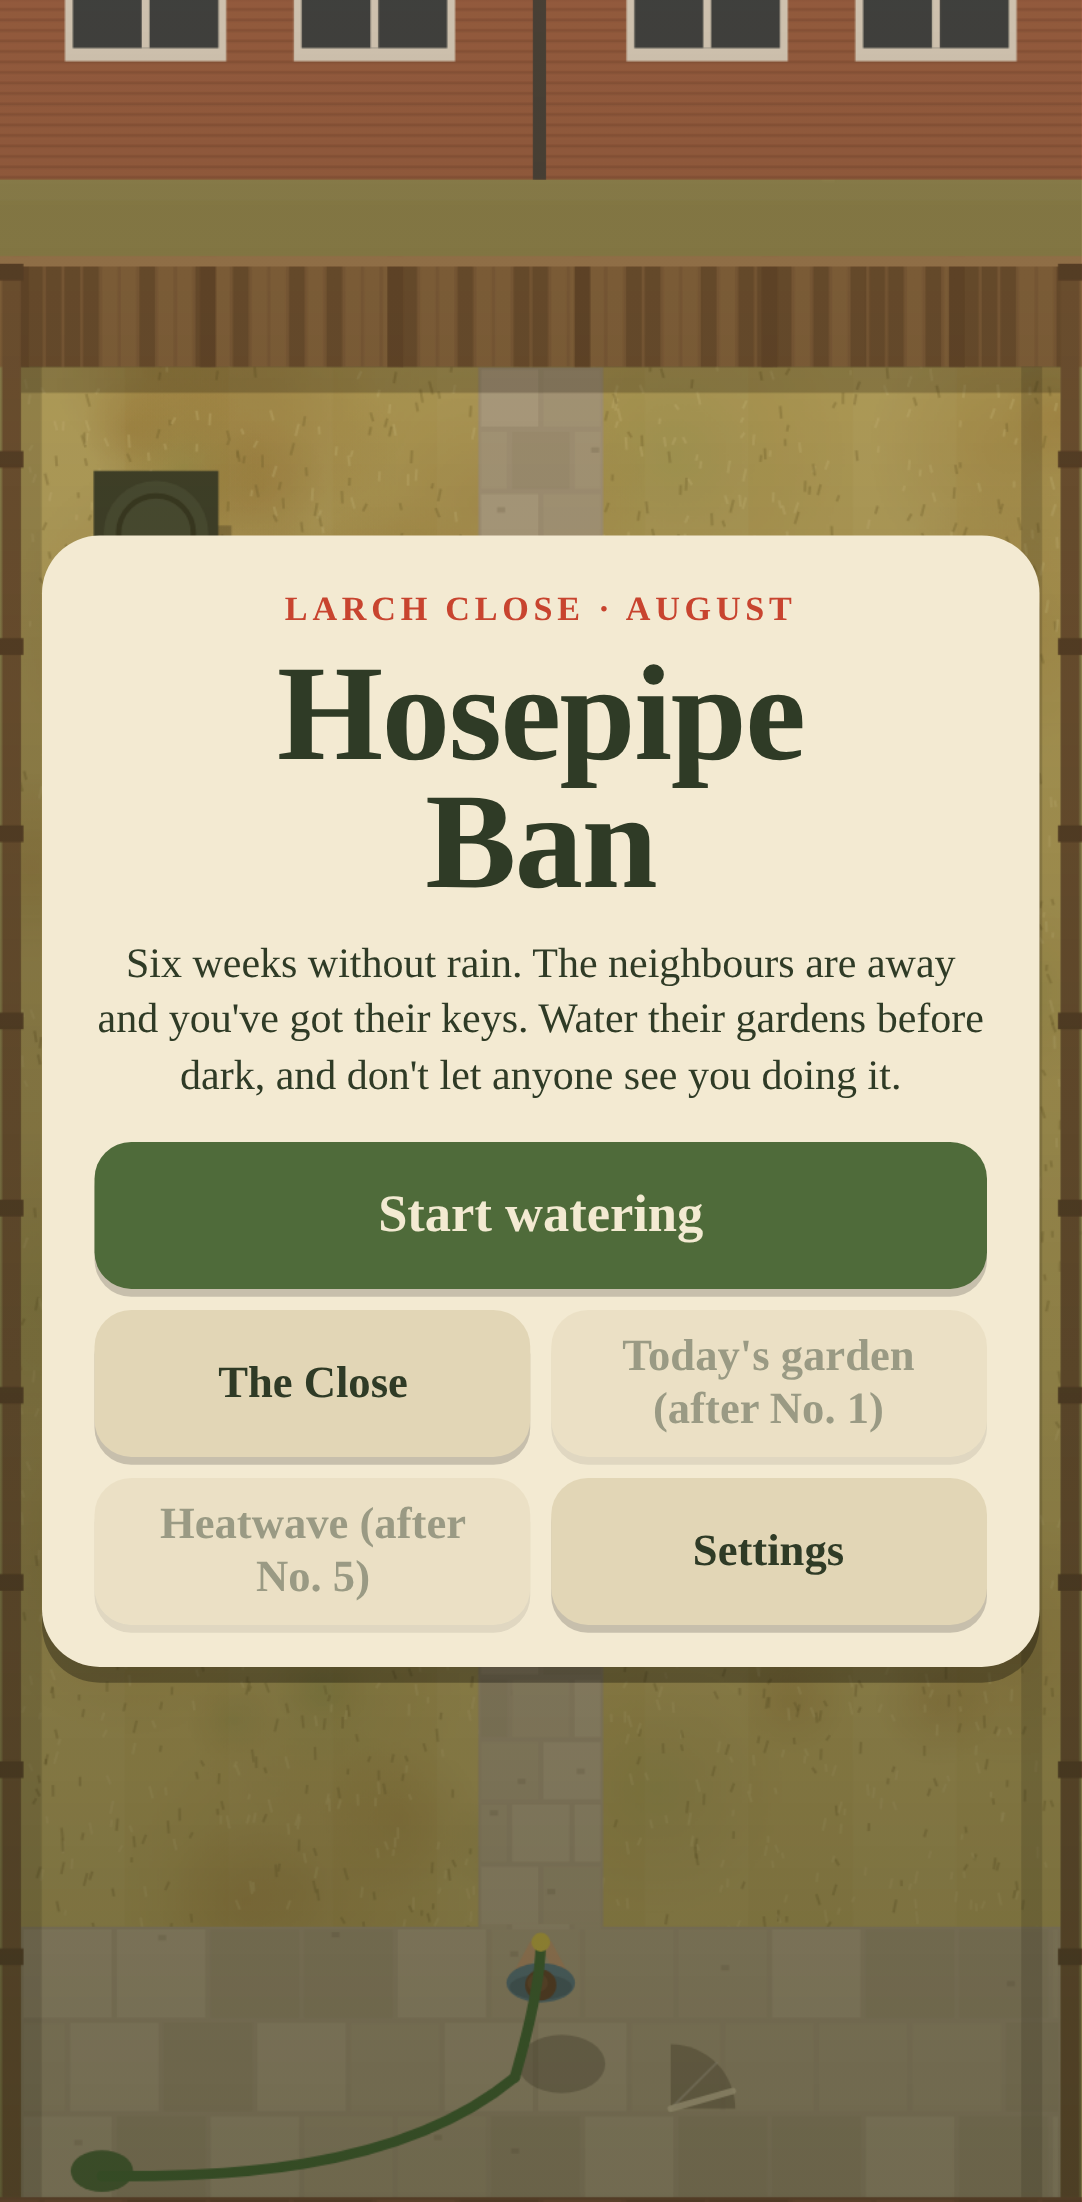
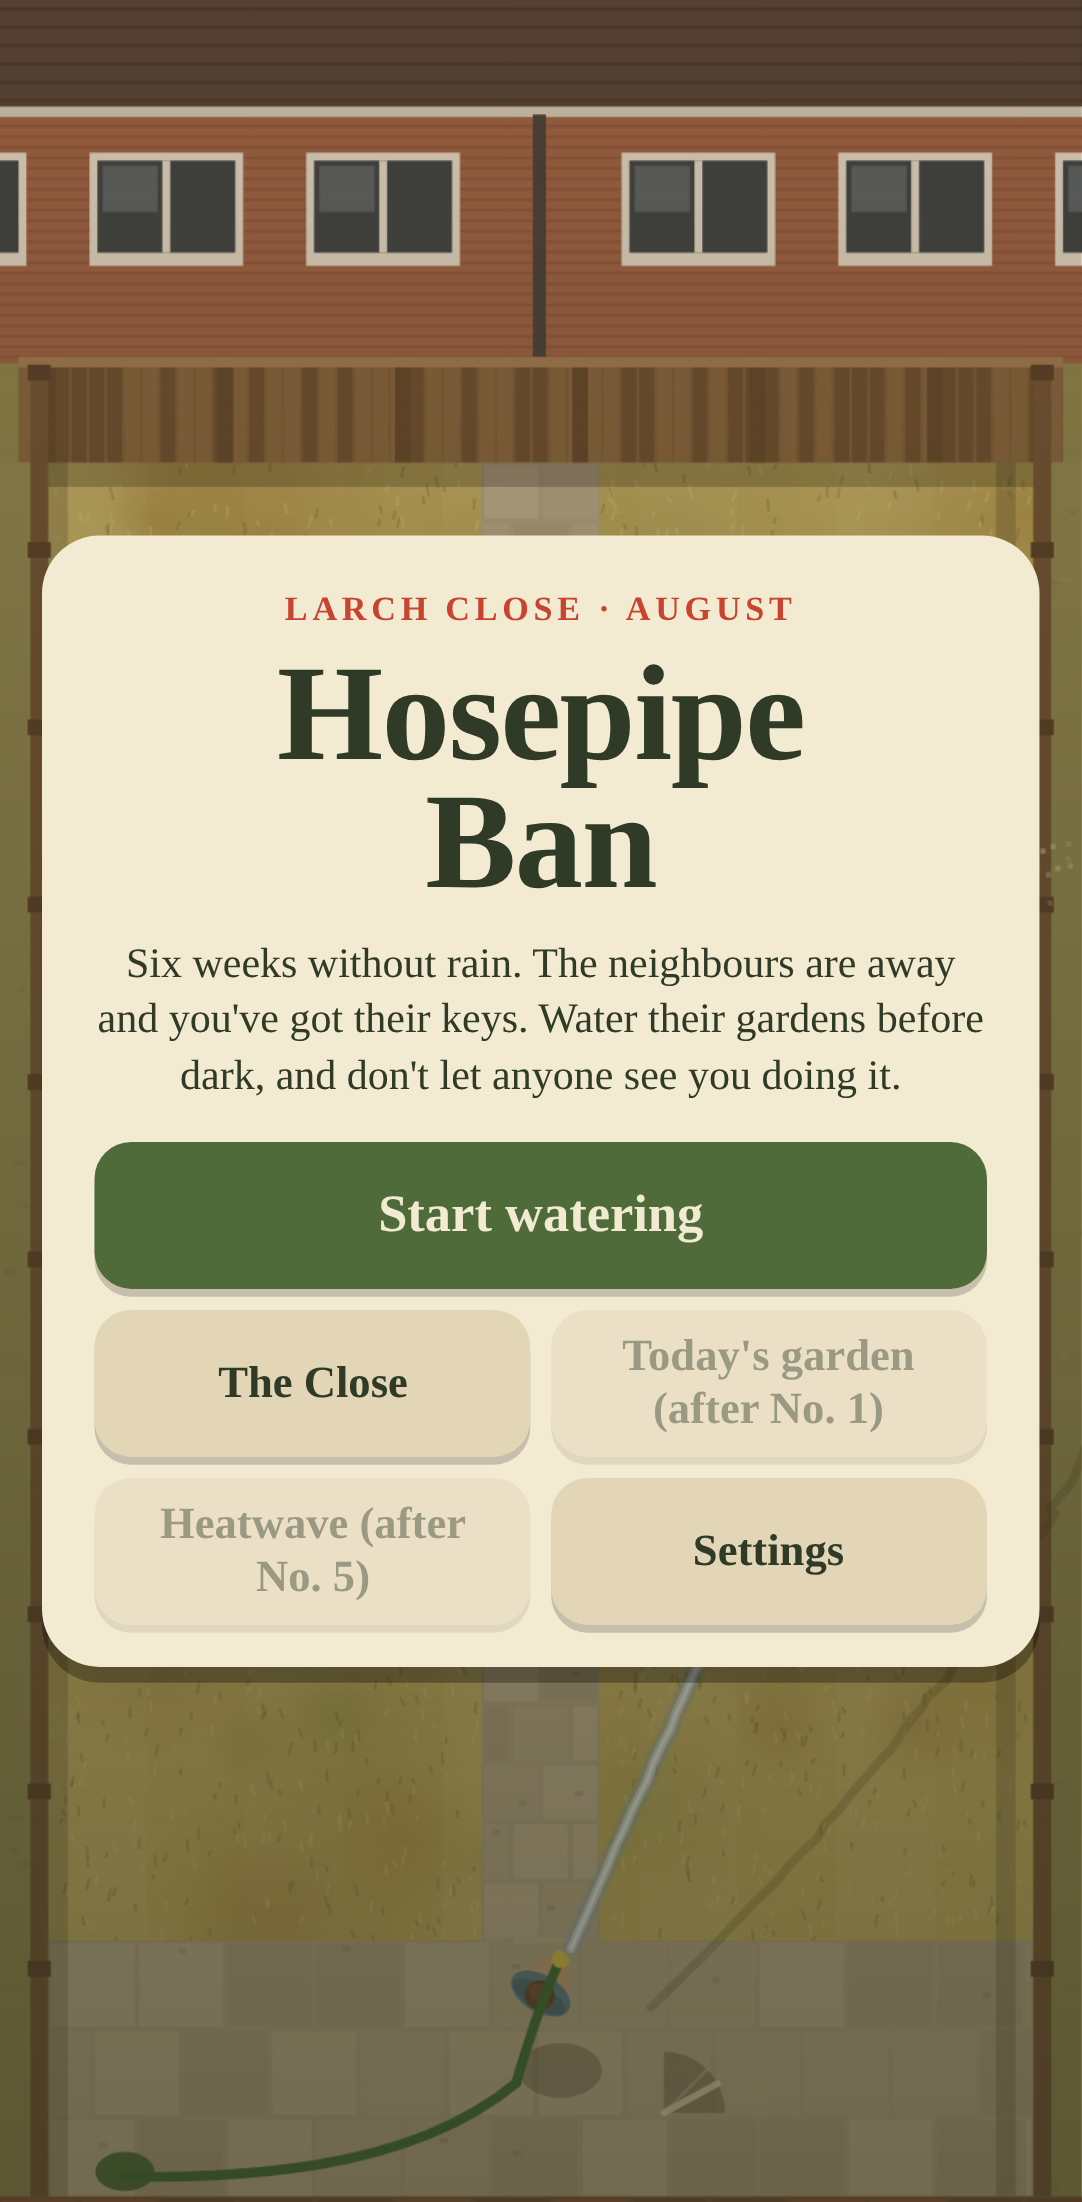
README, run_all, forgiving water budgets

diff --git a/dist/index.html b/dist/index.html
@@ -187,7 +187,7 @@ const U={
 'use strict';
 const SIM=(()=>{
 const G=30,DT=1/120,NOZ_Z=1.0,EL_MIN=-14,EL_MAX=80,AZ_MAX=1.5,FENCE_H=1.8,GW=10,GH=17;
-const MODES={jet:{v:21,rate:120,spread:.005,vs:.01,flow:1,wind:.55,drag:.04},spray:{v:14,rate:230,spread:.13,vs:.1,flow:1,wind:1.3,drag:.55}};
+const MODES={jet:{v:21,rate:120,spread:.005,vs:.01,flow:1,wind:1.0,drag:.04},spray:{v:14,rate:230,spread:.13,vs:.1,flow:1,wind:2.0,drag:.55}};
 const OVER=1.6;            // fill above this spills over and the plant counts as overwatered
 // particle pool, used as a ring in emission order so neighbours can be drawn as one continuous stream
 const N=2048,px=new Float32Array(N),py=new Float32Array(N),pz=new Float32Array(N),vx=new Float32Array(N),vy=new Float32Array(N),vz=new Float32Array(N),
@@ -414,11 +414,11 @@ const L=[
 {id:'no19',no:19,name:'No. 19',who:'The Hallorans',line:'The apple tree catches anything you lob. Shoot under it.',time:80,parF:1.7,
  trees:[{x:5,y:6.4,r:2.2,z0:2.75}],beds:[{x0:2.6,y0:5.8,x1:7.4,y1:7,plant:'lettuce',n:3},{x0:1.5,y0:1.6,x1:8.5,y1:2.6,plant:'beans',n:4}],baskets:[{x:1,y:12.5,z:2.2},{x:9,y:12.5,z:2.2}],
  hard:[PATIO],deco:[{k:'swing',x:8.2,y:9.6}]},
-{id:'no21',no:21,name:'No. 21',who:'The Fishers',line:'Washing, wind and the window. Good luck.',time:85,parF:1.6,wind:{x:-2.2,y:0,ph:2},window:{x:7,first:9,warn:1.3,watch:3,quiet:6.5,quietVar:4,rate:.42},
+{id:'no21',no:21,name:'No. 21',who:'The Fishers',line:'Washing, wind and the window. Good luck.',time:100,parF:1.6,wind:{x:-2.2,y:0,ph:2},window:{x:7,first:9,warn:1.3,watch:3,quiet:6.5,quietVar:4,rate:.42},
  wash:{ax:.4,ay:9.6,bx:9.6,by:9.6,items:[[.05,.15,.8,'shirt','#e9e4d6'],[.2,.3,.8,'towel','#5f8a6a'],[.36,.46,.9,'sheet','#e8e0ef'],[.55,.65,.7,'shirt','#c55a4a'],[.7,.8,.85,'towel','#e2b64a'],[.84,.93,.6,'socks','#3e4a5c']]},
  beds:[{x0:1,y0:2.2,x1:9,y1:3.3,plant:'roses',n:4}],pots:[{x:2,y:6.4,plant:'marigold'},{x:8,y:6.4,plant:'marigold'},{x:5,y:12.6,plant:'fern'}],baskets:[{x:1.2,y:13.4,z:2.2}],
  hard:[PATIO],deco:[{k:'post',x:.4,y:9.6},{k:'post',x:9.6,y:9.6},{k:'windsock',x:.4,y:.4}]},
-{id:'no23',no:23,name:'No. 23',who:'Show week',line:'The village show is Saturday. Everything at once.',time:95,parF:1.55,cat:{delay:12,gap:9,dig:.2},window:{x:3,first:10,warn:1.3,watch:3,quiet:7,quietVar:4,rate:.42},
+{id:'no23',no:23,name:'No. 23',who:'Show week',line:'The village show is Saturday. Everything at once.',time:120,parF:1.55,cat:{delay:12,gap:9,dig:.2},window:{x:3,first:10,warn:1.3,watch:3,quiet:7,quietVar:4,rate:.42},
  gh:{x0:5.2,y0:1.6,x1:9.4,y1:5.4,d0:6.4,d1:8.2},pots:[{x:6.6,y:3,plant:'tomato',h:.7,cap:2.2},{x:7.6,y:2.4,plant:'tomato',h:.7,cap:2.2},{x:8.1,y:3.8,plant:'tomato',h:.7,cap:2.2},{x:1.6,y:4.2,plant:'marrow',r:.6,cap:3.6}],
  beds:[{x0:1,y0:8,x1:4,y1:9.2,plant:'lettuce',n:2},{x0:6,y0:8,x1:9,y1:9.2,plant:'beans',n:2},{x0:2.8,y0:12.5,x1:7.2,y1:13.3,plant:'seedlings',fragile:true,n:3,cap:1.1}],baskets:[{x:5,y:10.6,z:2.3}],
  hard:[PATIO],deco:[{k:'pergola',x:3.6,y:10.6,x2:6.4}]},
@@ -533,7 +533,7 @@ const X=x=>ox+x*s,Y=(y,z)=>oy+(y-(z||0)*ZK)*s;
 function init(c){cv=c;g=cv.getContext('2d');resize();}
 function resize(){dpr=Math.min(2,window.devicePixelRatio||1);W=innerWidth;H=innerHeight;cv.width=Math.round(W*dpr);cv.height=Math.round(H*dpr);cv.style.width=W+'px';cv.style.height=H+'px';
   const cs=getComputedStyle(document.documentElement);safeT=parseFloat(cs.getPropertyValue('--sat'))||0;safeB=parseFloat(cs.getPropertyValue('--sab'))||0;
-  const avail=H-safeT-safeB;s=Math.min(W/10.4,(avail-58)/20.7);ox=(W-10*s)/2;oy=H-safeB-6-17.5*s;bgKey='';}
+  const avail=H-safeT-safeB;s=Math.min(W/10.4,(avail-62)/20.7);ox=(W-10*s)/2;oy=H-safeB-6-17.5*s;bgKey='';}
 function toWorld(px,py){return [(px-ox)/s,(py-oy)/s];}
 function toScreen(x,y,z){return [X(x),Y(y,z)];}
 
@@ -590,7 +590,7 @@ function drawHouses(c,S,r){const top=Y(0,FENCE_TOP());
   // a drainpipe
   c.fillStyle='#3a3a3a';c.fillRect(X(5)-3,wt,5,wy-wt);}
 function FENCE_H(){return 1.8;}function FENCE_TOP(){return 1.8;}
-function winRect(wx){const x0=X(wx-.7),x1=X(wx+.7),y0=Y(-1,4),y1=Y(-1,2.25);return [x0,y0,x1,y1];}
+function winRect(wx){const x0=X(wx-.7),x1=X(wx+.7),y0=Y(-1,3.75),y1=Y(-1,2.05);return [x0,y0,x1,y1];}
 function drawWindowFrame(c,wx,big){const [x0,y0,x1,y1]=winRect(wx);c.fillStyle='#e9e4d8';c.fillRect(x0-3,y0-3,x1-x0+6,y1-y0+8);c.fillStyle='#2f3a44';c.fillRect(x0,y0,x1-x0,y1-y0);
   if(!big){c.fillStyle='rgba(180,200,210,.25)';c.fillRect(x0+2,y0+2,(x1-x0)*.4,(y1-y0)*.5);c.fillStyle='#e9e4d8';c.fillRect((x0+x1)/2-1.5,y0,3,y1-y0);}}
 function drawFences(c,r){

diff --git a/js/levels.js b/js/levels.js
@@ -34,18 +34,18 @@ const L=[
 {id:'no19',no:19,name:'No. 19',who:'The Hallorans',line:'The apple tree catches anything you lob. Shoot under it.',time:80,parF:1.7,
  trees:[{x:5,y:6.4,r:2.2,z0:2.75}],beds:[{x0:2.6,y0:5.8,x1:7.4,y1:7,plant:'lettuce',n:3},{x0:1.5,y0:1.6,x1:8.5,y1:2.6,plant:'beans',n:4}],baskets:[{x:1,y:12.5,z:2.2},{x:9,y:12.5,z:2.2}],
  hard:[PATIO],deco:[{k:'swing',x:8.2,y:9.6}]},
-{id:'no21',no:21,name:'No. 21',who:'The Fishers',line:'Washing, wind and the window. Good luck.',time:85,parF:1.6,wind:{x:-2.2,y:0,ph:2},window:{x:7,first:9,warn:1.3,watch:3,quiet:6.5,quietVar:4,rate:.42},
+{id:'no21',no:21,name:'No. 21',who:'The Fishers',line:'Washing, wind and the window. Good luck.',time:100,parF:1.6,wind:{x:-2.2,y:0,ph:2},window:{x:7,first:9,warn:1.3,watch:3,quiet:6.5,quietVar:4,rate:.42},
  wash:{ax:.4,ay:9.6,bx:9.6,by:9.6,items:[[.05,.15,.8,'shirt','#e9e4d6'],[.2,.3,.8,'towel','#5f8a6a'],[.36,.46,.9,'sheet','#e8e0ef'],[.55,.65,.7,'shirt','#c55a4a'],[.7,.8,.85,'towel','#e2b64a'],[.84,.93,.6,'socks','#3e4a5c']]},
  beds:[{x0:1,y0:2.2,x1:9,y1:3.3,plant:'roses',n:4}],pots:[{x:2,y:6.4,plant:'marigold'},{x:8,y:6.4,plant:'marigold'},{x:5,y:12.6,plant:'fern'}],baskets:[{x:1.2,y:13.4,z:2.2}],
  hard:[PATIO],deco:[{k:'post',x:.4,y:9.6},{k:'post',x:9.6,y:9.6},{k:'windsock',x:.4,y:.4}]},
-{id:'no23',no:23,name:'No. 23',who:'Show week',line:'The village show is Saturday. Everything at once.',time:95,parF:1.55,cat:{delay:12,gap:9,dig:.2},window:{x:3,first:10,warn:1.3,watch:3,quiet:7,quietVar:4,rate:.42},
+{id:'no23',no:23,name:'No. 23',who:'Show week',line:'The village show is Saturday. Everything at once.',time:120,parF:1.55,cat:{delay:12,gap:9,dig:.2},window:{x:3,first:10,warn:1.3,watch:3,quiet:7,quietVar:4,rate:.42},
  gh:{x0:5.2,y0:1.6,x1:9.4,y1:5.4,d0:6.4,d1:8.2},pots:[{x:6.6,y:3,plant:'tomato',h:.7,cap:2.2},{x:7.6,y:2.4,plant:'tomato',h:.7,cap:2.2},{x:8.1,y:3.8,plant:'tomato',h:.7,cap:2.2},{x:1.6,y:4.2,plant:'marrow',r:.6,cap:3.6}],
  beds:[{x0:1,y0:8,x1:4,y1:9.2,plant:'lettuce',n:2},{x0:6,y0:8,x1:9,y1:9.2,plant:'beans',n:2},{x0:2.8,y0:12.5,x1:7.2,y1:13.3,plant:'seedlings',fragile:true,n:3,cap:1.1}],baskets:[{x:5,y:10.6,z:2.3}],
  hard:[PATIO],deco:[{k:'pergola',x:3.6,y:10.6,x2:6.4}]},
 ];
 function need(lv){let n=0;for(const p of lv.pots||[])n+=p.cap||2.2;for(const p of lv.baskets||[])n+=p.cap||1.8;
   for(const b of lv.beds||[]){const c=b.n||Math.max(1,Math.round(Math.max(b.x1-b.x0,b.y1-b.y0)/1.4));n+=c*(b.cap||1.5);}return n;}
-function finish(lv){const n=need(lv);lv.need=n;if(!lv.water)lv.water=Math.ceil(n*(lv.waterF||2.6));lv.par=Math.max(1,Math.round((lv.water-n*lv.parF)*10)/10);lv.seed=lv.seed||U.hash(lv.id);return lv;}
+function finish(lv){const n=need(lv);lv.need=n;if(!lv.water)lv.water=Math.ceil(n*(lv.waterF||(lv.gen?2.8:lv.no<=5?3.4:lv.no<=13?3.0:2.8)));lv.par=Math.max(1,Math.round((lv.water-n*lv.parF)*10)/10);lv.seed=lv.seed||U.hash(lv.id);return lv;}
 L.forEach(finish);
 
 // --- reachability check: every plant must be hittable by some clean shot (jet, or spray for seedlings)

diff --git a/js/render.js b/js/render.js
@@ -4,7 +4,7 @@ const RD=(()=>{
 let cv,g,W=0,H=0,dpr=1,s=30,ox=0,oy=0,bg=null,bgKey='',wetC=null,wg=null,WR=22,dryT=0,safeT=0,safeB=0;
 const ZK=.55,SHK=.75;
 const X=x=>ox+x*s,Y=(y,z)=>oy+(y-(z||0)*ZK)*s;
-function init(c){cv=c;g=cv.getContext('2d');resize();}
+let duskEl=null;function init(c){cv=c;g=cv.getContext('2d',{alpha:false});duskEl=document.getElementById('duskov');resize();}
 function resize(){dpr=Math.min(2,window.devicePixelRatio||1);W=innerWidth;H=innerHeight;cv.width=Math.round(W*dpr);cv.height=Math.round(H*dpr);cv.style.width=W+'px';cv.style.height=H+'px';
   const cs=getComputedStyle(document.documentElement);safeT=parseFloat(cs.getPropertyValue('--sat'))||0;safeB=parseFloat(cs.getPropertyValue('--sab'))||0;
   const avail=H-safeT-safeB;s=Math.min(W/10.4,(avail-62)/20.7);ox=(W-10*s)/2;oy=H-safeB-6-17.5*s;bgKey='';}
@@ -152,12 +152,10 @@ function frame(S,t,opt){if(!S)return;buildBg(S);g.setTransform(dpr,0,0,dpr,0,0);
   for(const d of S.lv.deco||[])if(d.k==='windsock')drawSock(d,S,t);
   for(const u of S.units)drawGauge(u,S,t);
   drawDial(S);
-  // dusk
+  // dusk: a composited overlay (cheaper than painting the whole screen) plus lit windows next door
   const dk=S.t/S.time;const warm=Math.max(0,1-dk*1.6),blue=U.ease((dk-.35)/.65);
-  if(warm>0){g.fillStyle='rgba(255,150,60,'+(.1*warm)+')';g.fillRect(0,0,W,H);}
-  if(blue>0){g.fillStyle='rgba(22,30,72,'+(.5*blue)+')';g.fillRect(0,0,W,H);
-    // lit windows next door
-    g.globalAlpha=blue*.85;for(const wx of [1.2,3.4,8.8,11]){if(S.win&&Math.abs(wx-S.win.x)<1.4)continue;if(((wx*7)|0)%3===0)continue;const [x0,y0,x1,y1]=winRect(wx);g.fillStyle='#f2c46a';g.fillRect(x0,y0,x1-x0,y1-y0);}g.globalAlpha=1;}
+  if(duskEl){const a=Math.max(.1*warm,.5*blue);const k=a>0?(.1*warm)/(a||1):0;duskEl.style.background=blue>0?'rgba(22,30,72,'+(.5*blue).toFixed(3)+')':'rgba(255,150,60,'+(.1*warm).toFixed(3)+')';}
+  if(blue>0){g.globalAlpha=blue*.85;for(const wx of [1.2,3.4,8.8,11]){if(S.win&&Math.abs(wx-S.win.x)<1.4)continue;if(((wx*7)|0)%3===0)continue;const [x0,y0,x1,y1]=winRect(wx);g.fillStyle='#f2c46a';g.fillRect(x0,y0,x1-x0,y1-y0);}g.globalAlpha=1;}
   if(opt.flash>0){g.fillStyle='rgba(255,255,255,'+opt.flash*.25+')';g.fillRect(0,0,W,H);}
 }
 function drainWet(S){const q=SIM.WQ,n=q.n;if(!wg)return;

diff --git a/js/main.js b/js/main.js
@@ -91,7 +91,7 @@ function floatAt(o,txt,col){if(!o)return;GAME.float.push({x:o.x,y:o.y,z:o.h||o.z
 let toastT=0;function toastCoach(t){if(GAME.coach&&COACH[GAME.coach.k]&&GAME.coach.step<COACH[GAME.coach.k].length)return;setCoach(t);toastT=3.2;}
 
 // ---------- results
-function finish(){const S=SIM.S,st=SIM.stars(),lv=GAME.lv;GAME.state='result';AU.silence();
+function finish(){const S=SIM.S,st=SIM.stars(),lv=GAME.lv;GAME.state='result';AU.silence();setCoach('');toastT=0;
   const won=st.won;const r={won,stars:st.n,why:S.why,water:S.water,used:S.used,t:S.t,tidy:st.tidy,par:st.par,mode:GAME.mode};GAME.lastResult=r;
   SV.D.stats.litres+=S.used;
   const kick=GAME.mode==='heat'?'Heatwave \u00b7 garden '+GAME.heat.n:GAME.mode==='daily'?"Today's garden":lv.name+' \u00b7 '+lv.who;$('rKick').textContent=kick;

diff --git a/css/style.css b/css/style.css
@@ -3,6 +3,7 @@
 *{box-sizing:border-box;-webkit-tap-highlight-color:transparent;user-select:none;-webkit-user-select:none;-webkit-touch-callout:none}
 html,body{margin:0;height:100%;overflow:hidden;background:#2f3b26;overscroll-behavior:none;touch-action:none;font-family:Georgia,'Iowan Old Style','Palatino Linotype',serif;color:var(--ink)}
 canvas{position:fixed;inset:0;display:block;touch-action:none}
+#duskov{position:fixed;inset:0;pointer-events:none}
 button{font:inherit;color:inherit;cursor:pointer;touch-action:manipulation}
 .hidden{display:none!important}
 #hud{position:fixed;inset:0;pointer-events:none}

diff --git a/index.html b/index.html
@@ -15,6 +15,7 @@
 </head>
 <body>
 <canvas id="cv"></canvas>
+<div id="duskov"></div>
 
 <div id="hud" class="hidden">
   <div id="hudTop">

diff --git a/tests/test_perf.py b/tests/test_perf.py
@@ -1,0 +1,27 @@
+# Frame pacing while the stream is running in the busiest garden, on a 4x CPU-throttled Pixel 7 emulation.
+from bot import *
+async def main():
+  t=T('perf')
+  async with async_playwright() as p:
+    b,c,pg,errs=await page(p,'Pixel 7');tc=await Touch(pg).init();await fixture(pg);E=pg.evaluate
+    cdp=await pg.context.new_cdp_session(pg);await cdp.send('Emulation.setCPUThrottlingRate',{'rate':4})
+    await E("FIX.stars({no21:1})");await E("GAME.startStreet(11,true)");await pg.wait_for_timeout(300)
+    async def sweep():
+      await tc.press((200,520))
+      for k in range(16):
+        await tc.moveto((120+(k%4)*50,440+(k%3)*60),steps=10,dt=30)
+      await tc.release()
+    task=asyncio.create_task(sweep())
+    await pg.wait_for_timeout(1500)
+    await E("window.__ft=[];(function f(t){if(window.__last)__ft.push(t-__last);window.__last=t;if(__ft.length<300)requestAnimationFrame(f)})(performance.now())")
+    await pg.wait_for_timeout(6500);await task
+    ft=sorted(await E("__ft"));live=await E("SIM.live");js=await E("window.__js||null")
+    avg=sum(ft)/len(ft);p95=ft[int(len(ft)*.95)]
+    print('frames',len(ft),'avg ms',round(avg,2),'p95 ms',round(p95,2),'js',js)
+    t.chk('4x throttled: average frame under 20 ms (50+ fps)',avg<20,round(avg,2))
+    t.chk('4x throttled: 95th percentile under 34 ms',p95<34,round(p95,2))
+    await cdp.send('Emulation.setCPUThrottlingRate',{'rate':1})
+    t.chk('no JS errors',not errs,errs)
+    await b.close()
+  t.done([])
+asyncio.run(main())

diff --git a/tests/test_http.py b/tests/test_http.py
@@ -1,0 +1,21 @@
+# Served over HTTP like GitHub Pages: loads, registers the service worker, and still loads offline.
+import subprocess,time
+from util import *
+async def main():
+  t=T('http');srv=subprocess.Popen(['python3','-m','http.server','8765','--bind','127.0.0.1'],cwd=str(ROOT),stdout=subprocess.DEVNULL,stderr=subprocess.DEVNULL);time.sleep(1)
+  try:
+    async with async_playwright() as p:
+      b,c,pg,errs=await page(p,'Pixel 7',url='http://127.0.0.1:8765/',clear=False)
+      t.chk('index loads over http',await pg.is_visible('#bPlay'))
+      ok=await pg.evaluate("navigator.serviceWorker.ready.then(()=>true)");await pg.wait_for_timeout(800)
+      t.chk('service worker registered',ok)
+      await c.set_offline(True);await pg.reload();await pg.wait_for_timeout(800)
+      t.chk('reloads offline from the cache',await pg.is_visible('#bPlay') and await pg.evaluate("typeof SIM==='object'&&typeof RD==='object'"))
+      t.chk('manifest linked',await pg.evaluate("!!document.querySelector('link[rel=manifest]')"))
+      t.chk('no JS errors',not errs,errs);await b.close()
+      b,c,pg,errs=await page(p,'Pixel 7',url='file://'+str(ROOT/'dist/index.html'))
+      t.chk('single-file dist/index.html starts with no other files',await pg.is_visible('#bPlay') and await pg.evaluate("typeof SIM==='object'"))
+      t.chk('single file: no JS errors',not errs,errs);await b.close()
+  finally:srv.terminate()
+  t.done([])
+asyncio.run(main())

diff --git a/tests/shots2.py b/tests/shots2.py
@@ -1,0 +1,12 @@
+from bot import *
+async def main():
+  async with async_playwright() as p:
+    b,c,pg,errs=await page(p,'Pixel 7');tc=await Touch(pg).init();await fixture(pg);E=pg.evaluate
+    await pg.wait_for_timeout(2500);await pg.screenshot(path=str(SHOTS/'01_title.png'))
+    await E("FIX.stars({no1:3,no3:2,no5:1})");await tc.tapel('#bStreet');await pg.wait_for_timeout(200);await pg.screenshot(path=str(SHOTS/'05_street.png'))
+    await tc.tapel('#h-no7');await pg.wait_for_timeout(300);await pg.screenshot(path=str(SHOTS/'02_intro.png'))
+    bot=Bot(pg,tc);task=asyncio.create_task(bot.play(timeout=7));await pg.wait_for_timeout(5000);await E("FIX.clock(SIM.S.time*.82)");await pg.wait_for_timeout(1200)
+    await pg.screenshot(path=str(SHOTS/'06_dusk.png'));await task
+    await E("GAME.startStreet(0,true)");bot=Bot(pg,tc);await bot.play();await pg.wait_for_timeout(1800);await pg.screenshot(path=str(SHOTS/'03_result.png'))
+    print(errs);await b.close()
+asyncio.run(main())

diff --git a/tests/bot.py b/tests/bot.py
@@ -68,6 +68,13 @@ class Bot:
         await s.pg.wait_for_timeout(int(s.react*1000))
       await s.steer(az,el)
       # hold until it's done, re-checking the window and the fill
+      if s.noise:  # a person sees where it lands and corrects, with a smaller error each time
+        for corr in range(3):
+          await s.pg.wait_for_timeout(int(max(.2,s.react)*1000))
+          a=await s.E(f"BOT.aim({u['id']},'{m}')")
+          if not a:break
+          f=0.5**(corr+1);await s.steer(a[0]+s.r.gauss(0,s.noise*0.05*f),a[1]+s.r.gauss(0,s.noise*3*f))
+          if await s.E(f"SIM.S.units[{u['id']}].done"):break
       for k in range(80):
         y=await s.E(f"(()=>{{const u=SIM.S.units[{u['id']}];return [u.done||u.w+SIM.live/120/u.cap*{s.lead}>=1.05,u.w,SIM.S.state,SIM.S.win?SIM.S.win.st:'',SIM.S.cat&&SIM.S.cat.st==='dig']}})()")
         if y[0] or y[2]!='play' or y[3] in('watch','twitch') or y[4]:break

diff --git a/README.md b/README.md
@@ -1,0 +1,53 @@
+# Hosepipe Ban
+
+Larch Close, August. Six weeks without rain and a hosepipe ban. The neighbours are away and you have their keys.
+Water their gardens before dark with one hose and one water butt, and don't let anyone see you doing it.
+
+**Play:** https://zwitched.github.io/hosepipe-ban/ (portrait phone; add it to your home screen to play offline)
+
+## How to play
+- **Hold** anywhere on the garden to open the tap. **Lift** to stop.
+- While holding, **slide up** to raise the nozzle and send the water further, **slide down** to bring it closer.
+  Past about halfway up the jet arcs high and drops back in: that's how you get water into hanging baskets and over washing lines.
+- **Slide sideways** to swing the hose.
+- Each plant has a ring. Fill it past the white mark, then move on before it overflows.
+  Water is in the air for most of a second, so let go or move off a moment early.
+- The long evening shadow of the stream shows how high it is.
+- **JET / SPRAY** (bottom right, once you reach the seedlings): the jet reaches the whole garden but flattens seedlings; the spray is gentle and short.
+- The butt (bottom left) is all the water you get. Finish above the dashed line for the third star.
+- Restart any garden instantly with the arrow at the top right.
+
+Stars: water everything before dark; nothing overwatered, flattened, soaked or knocked over; finish with water above the line.
+You fail if the butt runs dry, it gets dark, or the eye fills up.
+
+## The gardens
+Twelve houses on Larch Close, each adding one new thing: pots, a bean row to sweep, hanging baskets, Mrs Gill's
+washing, seedlings, wind (watch the windsock), someone watching from over the back fence (let go when the curtain
+twitches), a cat that digs up the veg (a squirt sends it off), a greenhouse you can only water through the door,
+an apple tree that catches lobs, and then all of them together.
+
+- **Today's garden** (after No. 1): one generated garden per day, the same for everyone on that date.
+- **Heatwave** (after No. 5): generated gardens one after another, each a bit worse, until you fail. Best score is kept.
+
+## Run it
+No build step and no dependencies. Serve the folder with any static server:
+
+    python3 -m http.server 8000    # then open http://localhost:8000
+
+Or just open `dist/index.html`: it's the whole game in one file and works straight from disk.
+`python3 build.py` regenerates `dist/index.html` from the sources.
+
+## Deploy
+Copy the folder (or just `dist/index.html`) to any static host. GitHub Pages: push to `main` and serve from the root.
+
+## Tests
+Browser tests use Playwright (Python) and drive the game with real CDP touch events on the canvas and buttons:
+
+    pip install playwright && python -m playwright install chromium
+    tests/run_all.sh
+
+`tests/bot.py` is a touch-driven player used to prove every garden can be won and to show the difficulty curve.
+
+## Files
+`js/sim.js` water and garden simulation, `js/levels.js` gardens and generator, `js/render.js` drawing,
+`js/audio.js` synthesised sound, `js/main.js` game flow, input, menus and saving.
